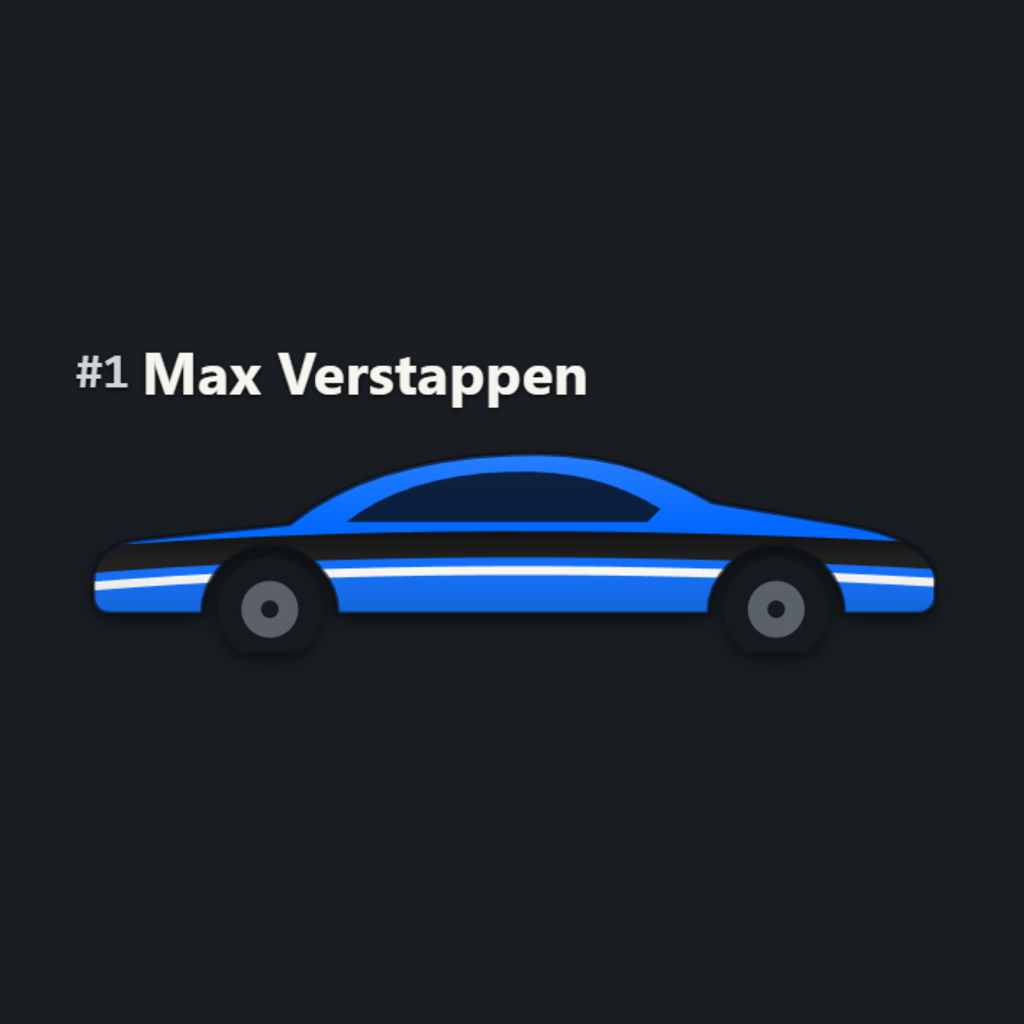
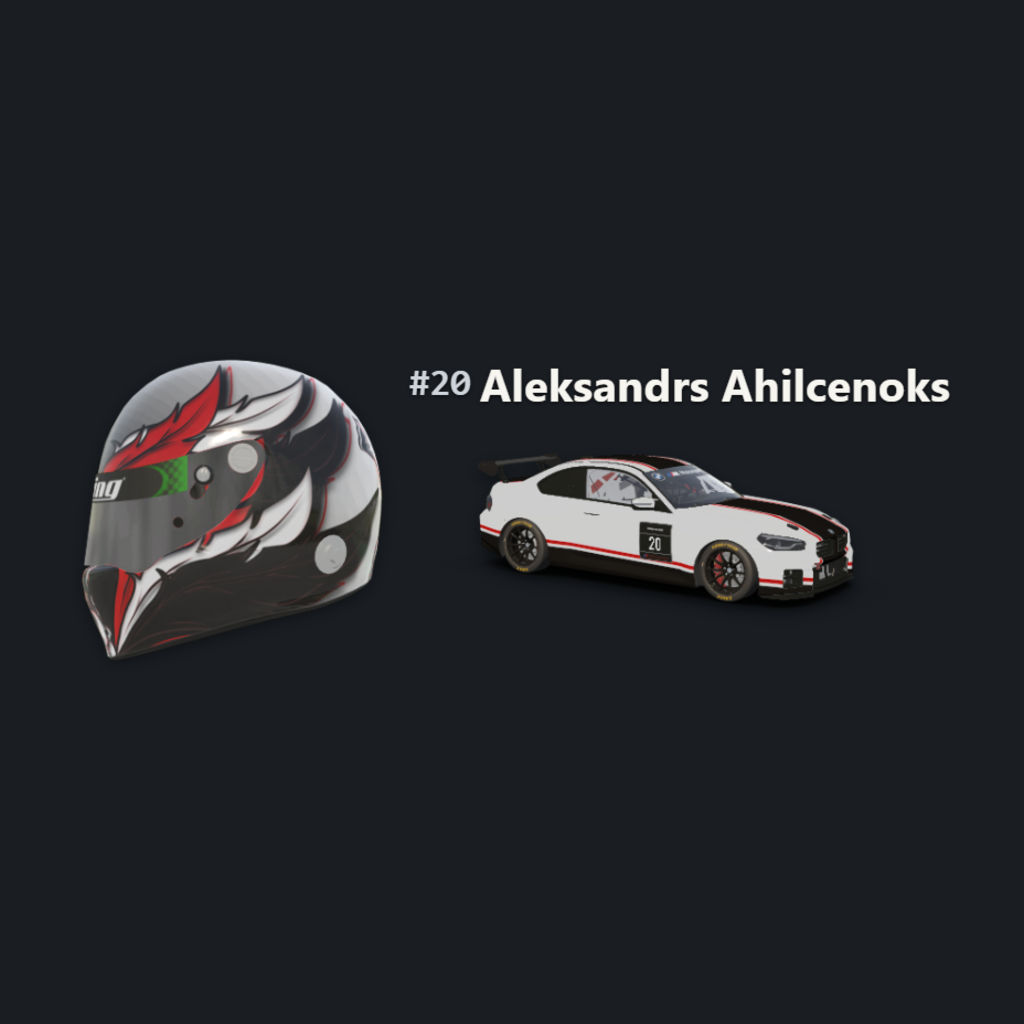
Driver Card 0.3.0: only iRacing's own helmet and car, a spinner while iRacing draws them and nothing when it cannot; the demo shows Aleksandrs Ahilcenoks with his helmet and BMW M2 from Summit Point

Changed region(s): [[0.0625, 0.3438, 0.9375, 0.6562]]

diff --git a/overlays/driver-card/src/App.tsx b/overlays/driver-card/src/App.tsx
@@ -1,135 +1,75 @@
 import { assetUrls } from '@racelink/overlay';
 import { useState, type CSSProperties } from 'react';
-import { cardOf, helmetUrl, pickDriver, type Design } from './driver';
+import demoCar from './assets/demo-car.png';
+import demoHelmet from './assets/demo-helmet.png';
+import { cardOf, pickDriver, type Card } from './driver';
 import { useOverlay, type Overlay } from './useOverlay';
 
-/** A picture that hides itself when it does not load. */
-function Picture({ src, className, alt }: Readonly<{ src: string; className: string; alt: string }>) {
-  const [failed, setFailed] = useState<string | null>(null);
-  if (failed === src) return null;
-  return (
-    <img
-      className={className}
-      src={src}
-      alt={alt}
-      draggable={false}
-      onError={() => {
-        setFailed(src);
-      }}
-    />
-  );
-}
-
 /**
- * The first of `sources` that loads; the next one when a picture fails (the
- * pictures iRacing draws need iRacing running), `fallback` after the last.
+ * A picture with a spinner while it loads. iRacing draws its pictures on
+ * first use (a fraction of a second); one that does not load shows nothing.
  */
-function FirstPicture({
-  sources,
+function LoadingPicture({
+  src,
   className,
-  fallback = null,
-}: Readonly<{ sources: readonly string[]; className: string; fallback?: React.ReactNode }>) {
-  const [failed, setFailed] = useState<readonly string[]>([]);
-  const src = sources.find((source) => !failed.includes(source));
-  if (src === undefined) return <>{fallback}</>;
+  alt = '',
+}: Readonly<{ src: string | null; className: string; alt?: string }>) {
+  const [state, setState] = useState<Readonly<{ src: string | null; status: 'loading' | 'done' | 'failed' }>>({
+    src,
+    status: 'loading',
+  });
+  // A new picture starts loading again.
+  const status = state.src === src ? state.status : 'loading';
+  if (src === null || status === 'failed') return null;
   return (
-    <img
-      className={className}
-      src={src}
-      alt=""
-      draggable={false}
-      onError={() => {
-        setFailed((list) => [...list, src]);
-      }}
-    />
-  );
-}
-
-/** A sports car seen from the side, facing right (viewBox 0 0 400 112). */
-const BODY =
-  'M8 80C8 68 14 62 30 60L98 53C120 35 152 23 198 21C238 19 264 27 292 43L352 53C376 57 392 65 394 77V87C394 91 390 94 386 94H352A31 31 0 0 0 290 94H120A31 31 0 0 0 58 94H16C10 94 8 90 8 86Z';
-const GLASS = 'M124 52C142 38 166 30 198 29C228 28 248 34 268 46L262 52H130Z';
-const WHEELS = [89, 321] as const;
-
-/**
- * The car: its custom paint (the side cut from the template, with number and
- * decals) laid into a car's shape, or the shape in the colours picked in iRacing.
- */
-function Car({
-  side,
-  design,
-  accent,
-}: Readonly<{ side: string | null; design: Design | null; accent: string }>) {
-  const [failed, setFailed] = useState<string | null>(null);
-  const paint = side !== null && failed !== side ? side : null;
-  const [main, second, third] = design?.colors ?? [];
-  return (
-    <svg className="dc-car" viewBox="0 0 400 112" aria-hidden="true">
-      <defs>
-        <clipPath id="dc-body">
-          <path d={BODY} />
-        </clipPath>
-        <linearGradient id="dc-shade" x1="0" y1="0" x2="0" y2="1">
-          <stop offset="0" stopColor="#fff" stopOpacity="0.25" />
-          <stop offset="0.5" stopColor="#fff" stopOpacity="0" />
-          <stop offset="1" stopColor="#000" stopOpacity="0.35" />
-        </linearGradient>
-      </defs>
-      <g clipPath="url(#dc-body)">
-        {paint ? (
-          <image
-            href={paint}
-            x="0"
-            y="14"
-            width="400"
-            height="84"
-            preserveAspectRatio="xMidYMid slice"
-            onError={() => {
-              setFailed(paint);
-            }}
-          />
-        ) : (
-          <>
-            <rect width="400" height="112" fill={main ?? accent} />
-            <path d="M0 64C120 54 260 54 400 62V74C260 66 120 66 0 76Z" fill={second ?? '#111'} />
-            <path d="M0 80C120 70 260 70 400 78V82C260 74 120 74 0 84Z" fill={third ?? '#fff'} />
-          </>
-        )}
-        <rect width="400" height="112" fill="url(#dc-shade)" />
-      </g>
-      <path d={GLASS} fill="#0b0e13" fillOpacity="0.82" />
-      <path d={BODY} fill="none" stroke="#0b0e13" strokeOpacity="0.7" strokeWidth="2" />
-      {WHEELS.map((x) => (
-        <g key={x}>
-          <circle cx={x} cy="92" r="24" fill="#16191d" />
-          <circle cx={x} cy="92" r="13" fill="#5b616a" />
-          <circle cx={x} cy="92" r="4" fill="#16191d" />
-        </g>
-      ))}
-    </svg>
+    <span className={`dc-picture ${className}${status === 'loading' ? ' is-loading' : ''}`}>
+      {status === 'loading' && <i className="dc-spinner" aria-hidden="true" />}
+      <img
+        src={src}
+        alt={alt}
+        draggable={false}
+        onLoad={() => {
+          setState({ src, status: 'done' });
+        }}
+        onError={() => {
+          setState({ src, status: 'failed' });
+        }}
+      />
+    </span>
   );
 }
 
 export default function App({ overlay }: Readonly<{ overlay: Overlay }>) {
-  const { telemetry, settings } = useOverlay(overlay, 10);
+  const { telemetry, settings, status } = useOverlay(overlay, 10);
   const driver = pickDriver(telemetry.drivers, settings.driver);
   if (!driver) return null;
-  const card = cardOf(driver);
+  // The demo shows Aleksandrs Ahilcenoks with his helmet and car from a race at
+  // Summit Point, drawn by iRacing: demo drivers have no iRacing pictures.
+  const card: Card =
+    status === 'demo'
+      ? {
+          ...cardOf(driver),
+          name: 'Aleksandrs Ahilcenoks',
+          carNumber: '20',
+          countryCode: 'lv',
+          countryName: 'Latvia',
+          carUrl: demoCar,
+          helmetUrl: demoHelmet,
+        }
+      : cardOf(driver);
+  const helmet = card.helmetUrl;
+  const car = card.carUrl;
   const opacity = settings.plate ? Math.min(1, Math.max(0, settings.opacity)) : 0;
-  const helmets = [card.renderHelmetUrl, helmetUrl(card.helmet)].filter(
-    (url): url is string => url !== null,
-  );
   return (
     <section
-      key={card.carIdx}
       className={`dc${settings.plate ? ' has-plate' : ''}`}
       style={{ '--dc-alpha': String(opacity), '--dc-class': card.classColor } as CSSProperties}
     >
-      {settings.showHelmet && <FirstPicture className="dc-helmet" sources={helmets} />}
+      {settings.showHelmet && <LoadingPicture className="dc-helmet" src={helmet} />}
       <div className="dc-body">
         <div className="dc-line">
           {settings.showFlag && card.countryCode !== null && (
-            <Picture
+            <LoadingPicture
               className="dc-flag"
               src={assetUrls.flag(card.countryCode)}
               alt={card.countryName ?? card.countryCode}
@@ -140,13 +80,7 @@ export default function App({ overlay }: Readonly<{ overlay: Overlay }>) {
             {card.name}
           </strong>
         </div>
-        {settings.showCar && (
-          <FirstPicture
-            className="dc-render"
-            sources={card.renderCarUrl ? [card.renderCarUrl] : []}
-            fallback={<Car side={card.carSideUrl} design={card.car} accent={card.classColor} />}
-          />
-        )}
+        {settings.showCar && <LoadingPicture className="dc-car" src={car} />}
       </div>
     </section>
   );

diff --git a/overlays/driver-card/src/driver.ts b/overlays/driver-card/src/driver.ts
@@ -1,8 +1,5 @@
-import { assetsUrl, type DriverTelemetry } from '@racelink/overlay';
+import type { DriverTelemetry } from '@racelink/overlay';
 import { nationalityOfFlair } from '../../../racelink/src/renderer/widgets/overlays/r-common/driver/helpers';
-
-/** A design a driver picked in iRacing: a pattern number and its colours. */
-export type Design = Readonly<{ pattern: number; colors: readonly string[] }>;
 
 /** Everything the card shows of one driver. */
 export type Card = Readonly<{
@@ -12,49 +9,22 @@ export type Card = Readonly<{
   classColor: string;
   countryCode: string | null;
   countryName: string | null;
-  helmet: Design | null;
-  car: Design | null;
-  carSideUrl: string | null;
-  carTemplateUrl: string | null;
-  /** Pictures iRacing draws itself (`ext.iracing.render`, Overlay API 2.19). */
-  renderCarUrl: string | null;
-  renderHelmetUrl: string | null;
+  /** The car with its livery and the helmet, as iRacing itself draws them (Overlay API 2.19). */
+  carUrl: string | null;
+  helmetUrl: string | null;
 }>;
 
 const isRecord = (value: unknown): value is Readonly<Record<string, unknown>> =>
   typeof value === 'object' && value !== null && !Array.isArray(value);
 
-const colorPattern = /^#[0-9a-f]{6}$/i;
-
-/**
- * `drivers[].ext.iracing.design.*` (Overlay API 2.19). Read defensively: an
- * older Racelink does not send it, and the data is not this page's to trust.
- */
-export const designOf = (value: unknown): Design | null => {
-  if (!isRecord(value)) return null;
-  const { pattern, colors } = value;
-  if (typeof pattern !== 'number' || !Number.isInteger(pattern) || pattern < 0) return null;
-  if (!Array.isArray(colors)) return null;
-  const valid = colors.filter((color): color is string => typeof color === 'string' && colorPattern.test(color));
-  return valid.length > 0 ? { pattern, colors: valid.slice(0, 3) } : null;
-};
-
 /** A picture Racelink serves on this computer; anything else is not shown. */
-const localPicture = (value: unknown): string | null =>
+export const localPicture = (value: unknown): string | null =>
   typeof value === 'string' && value.startsWith('http://127.0.0.1:') ? value : null;
-
-/** The helmet Racelink draws in a driver's colours (`assetUrls.helmet` of SDK 2.16). */
-export const helmetUrl = (design: Design | null): string => {
-  const colors = (design?.colors ?? []).map((color) => color.slice(1).toLowerCase());
-  const query = colors.length > 0 ? `?c=${colors.join(',')}` : '';
-  return `${assetsUrl}/helmets/${String(design?.pattern ?? 0)}.svg${query}`;
-};
 
 export const cardOf = (driver: DriverTelemetry): Card => {
   const iracing: unknown = driver.ext.iracing;
   const ext = isRecord(iracing) ? iracing : {};
-  const design = isRecord(ext.design) ? ext.design : {};
-  const paint = isRecord(ext.paint) ? ext.paint : {};
+  // `ext.iracing.render` is read defensively: an older Racelink does not send it.
   const render = isRecord(ext.render) ? ext.render : {};
   const flairId = typeof ext.flairId === 'number' ? ext.flairId : null;
   const nationality = nationalityOfFlair(flairId);
@@ -65,12 +35,8 @@ export const cardOf = (driver: DriverTelemetry): Card => {
     classColor: driver.classColor,
     countryCode: nationality?.countryCode ?? null,
     countryName: nationality?.name ?? null,
-    helmet: designOf(design.helmet),
-    car: designOf(design.car),
-    carSideUrl: localPicture(paint.carSideUrl),
-    carTemplateUrl: localPicture(paint.carTemplateUrl),
-    renderCarUrl: localPicture(render.carUrl),
-    renderHelmetUrl: localPicture(render.helmetUrl),
+    carUrl: localPicture(render.carUrl),
+    helmetUrl: localPicture(render.helmetUrl),
   };
 };
 

diff --git a/overlays/driver-card/src/card.css b/overlays/driver-card/src/card.css
@@ -29,9 +29,53 @@
     0 0 0.4cqh rgb(0 0 0 / 0.9);
 }
 
+/* A picture and the spinner shown while it loads. */
+.dc-picture {
+  position: relative;
+  display: inline-flex;
+  align-items: center;
+  justify-content: center;
+}
+
+.dc-picture > img {
+  display: block;
+  height: 100%;
+  width: auto;
+  max-width: 100%;
+  object-fit: contain;
+}
+
+.dc-picture.is-loading > img {
+  position: absolute;
+  opacity: 0;
+}
+
+.dc-spinner {
+  width: 30%;
+  max-width: 6cqh;
+  min-width: 2cqh;
+  aspect-ratio: 1;
+  border: 0.6cqh solid rgb(255 255 255 / 0.2);
+  border-top-color: var(--dc-class, #ff7a1a);
+  border-radius: 50%;
+  animation: dc-spin 0.8s linear infinite;
+}
+
+@keyframes dc-spin {
+  to {
+    transform: rotate(360deg);
+  }
+}
+
+@media (prefers-reduced-motion: reduce) {
+  .dc-spinner {
+    animation-duration: 2.4s;
+  }
+}
+
 .dc-helmet {
   height: 88cqh;
-  width: auto;
+  aspect-ratio: 1;
   filter: drop-shadow(0 1cqh 2cqh rgb(0 0 0 / 0.45));
 }
 
@@ -54,6 +98,10 @@
 .dc-flag {
   height: 11cqh;
   aspect-ratio: 4 / 3;
+}
+
+.dc-flag > img {
+  width: 100%;
   object-fit: cover;
   box-shadow: 0 0 0 1px rgb(255 255 255 / 0.3);
 }
@@ -74,22 +122,12 @@
 }
 
 /* iRacing's picture of the car, three-quarter view, transparent. */
-.dc-render {
-  height: 74cqh;
-  margin-top: -4cqh;
-  width: auto;
-  max-width: 100%;
-  object-fit: contain;
-  object-position: left center;
-  align-self: flex-start;
-  filter: drop-shadow(0 1.5cqh 2cqh rgb(0 0 0 / 0.5));
-}
-
 .dc-car {
-  height: 50cqh;
-  width: auto;
-  aspect-ratio: 400 / 112;
+  height: 74cqh;
+  aspect-ratio: 508 / 272;
   max-width: 100%;
+  margin-top: -4cqh;
   align-self: flex-start;
-  filter: drop-shadow(0 1.5cqh 2cqh rgb(0 0 0 / 0.55));
+  justify-content: flex-start;
+  filter: drop-shadow(0 1.5cqh 2cqh rgb(0 0 0 / 0.5));
 }

diff --git a/README.md b/README.md
@@ -25,7 +25,7 @@ scripts/              install-builds.mjs, gen-previews.mjs
 | Dash | `dash` |
 | Anime Relatives (new; its code is in `overlays/anime-relatives/src/`) | `anime-relatives` |
 | GT4 Gauges (new; twin speedometer and tachometer, its code is in `overlays/gt4-gauges/src/`) | `gt4-gauges` |
-| Driver Card (new; flag, full name, the helmet and the car with its livery as iRacing draws them, for the driver you watch; iRacing, needs Racelink with Overlay API 2.19; its code is in `overlays/driver-card/src/`) | `driver-card` |
+| Driver Card (new; flag, full name, the helmet and the car with its livery as iRacing draws them, for the driver you watch, with a spinner while they load and nothing when iRacing cannot draw them; iRacing, needs Racelink with Overlay API 2.19; its code is in `overlays/driver-card/src/`) | `driver-card` |
 
 Layouts made while these overlays were built in keep them: Racelink turns a
 built-in `r-standings` into the package `local:r-standings` (and so on), so
